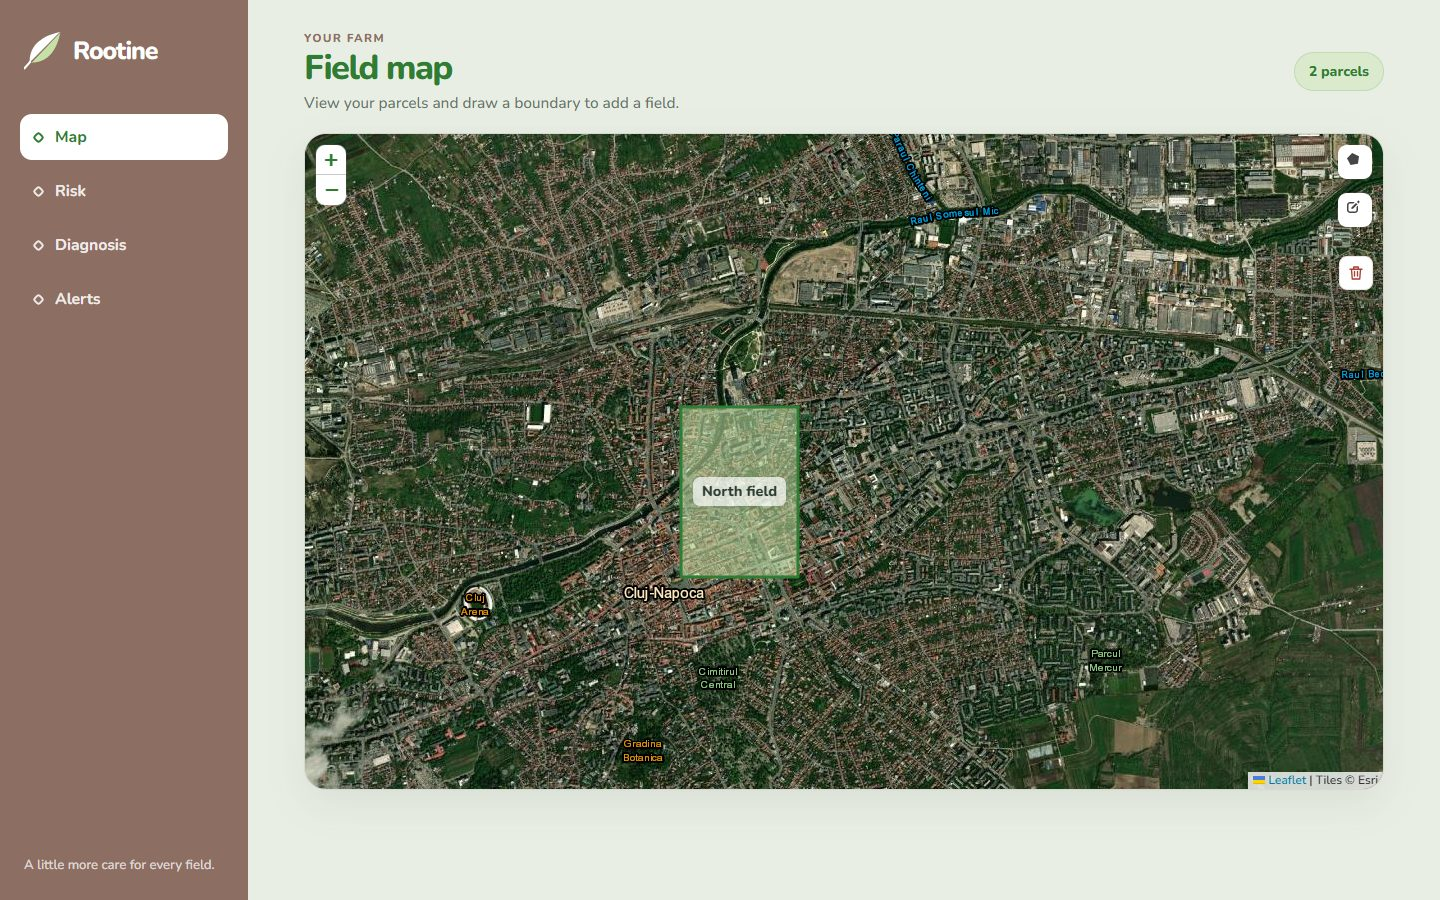
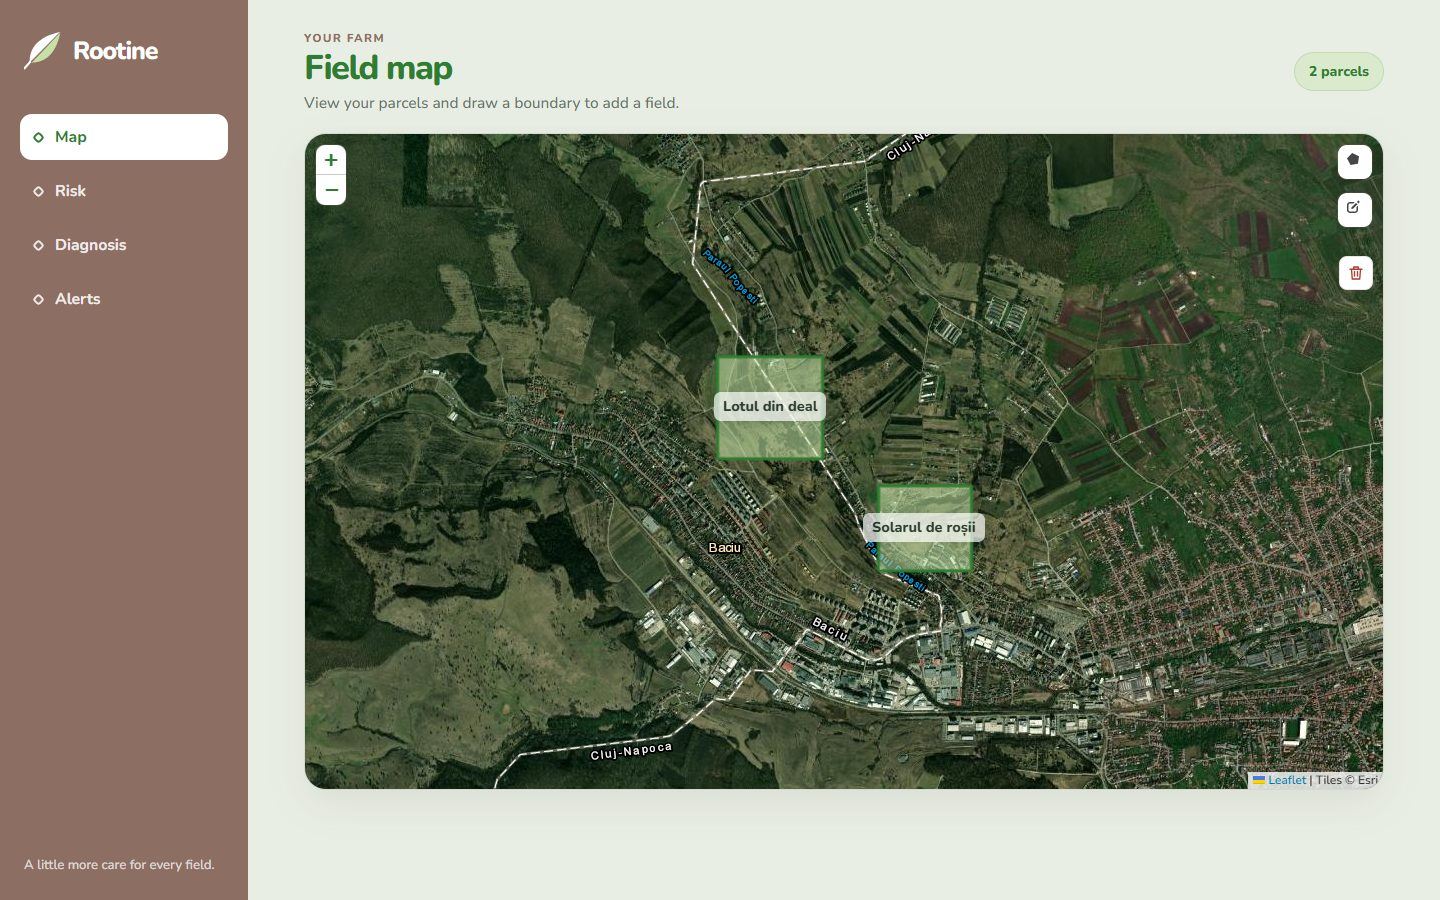
docs(presentations): fix Romanian wording and use screenshots from the full stack
Rewrite slide text and speaker notes after a Romanian language review (no English calques, correct use of de with numerals, e-mail, endpointuri). Replace the mock-data screenshots with screenshots of the full stack running in Docker with the real model, including a real diagnosis result with the PlantVillage credit. Backend test count is now 45, all run (26 unit, 19 integration). Larger type on flow slides, bigger screenshots. Update FACTS.md.

diff --git a/docs/presentations/demo-1/index.html b/docs/presentations/demo-1/index.html
@@ -21,66 +21,66 @@
     <div class="brand anim"><svg><use href="#leaf"/></svg><span>Rootine</span></div>
     <div class="grid">
       <h1 class="anim d1">Boala se vede<br>întâi pe <em>frunză</em>.</h1>
-      <p class="lead anim d2">Bolile plantelor se observă greu la început și costă mult dacă sunt găsite târziu. Rootine le găsește dintr-o fotografie și din vreme.</p>
+      <p class="lead anim d2">Rootine recunoaște boala dintr-o poză și calculează riscul pe parcelă din datele meteo.</p>
     </div>
     <div class="rule"></div>
     <div class="foot anim d3"><span>Work in Progress (WIP)</span><span class="sep"></span><span>Demo 1</span></div>
-    <aside class="notes"><h4>Subiecte pentru voce</h4><ul><li>Problema fermierului: boala se vede târziu</li><li>Rootine într-o propoziție: diagnostic din poză și risc meteo pe parcelă</li><li>Echipa Work in Progress, 8 oameni, 3 echipe</li></ul></aside>
+    <aside class="notes"><h4>Idei pentru voce</h4><ul><li>Problema fermierului: boala se observă târziu, când e greu de tratat</li><li>Rootine într-o propoziție: diagnostic dintr-o poză și risc meteo pe parcelă</li><li>Echipa Work in Progress: 8 oameni, 3 echipe</li></ul></aside>
   </section>
 
   <!-- 2. ML: diagnostic din fotografie (15 s) -->
-  <section class="slide s-numbers cols-3 has-title" aria-label="ML diagnostic" data-seconds="15">
+  <section class="slide s-numbers cols-3 has-title" aria-label="Diagnostic ML" data-seconds="15">
     <p class="kicker anim">ML · Diagnostic din fotografie</p>
-    <h2 class="anim d1">Poză în. Top 3 boli sau <em>„nesigur”</em> afară.</h2>
+    <h2 class="anim d1">Dintr-o poză: top 3 boli sau <em>„nesigur”</em>.</h2>
     <div class="nums">
       <div class="n anim d1"><b>13</b><span>clase în Demo 1<br>tomate și cartofi</span></div>
       <div class="n anim d2"><b>38</b><span>clase țintă<br>tot catalogul PlantVillage</span></div>
-      <div class="n anim d3"><b class="long">99,67%</b><span>acuratețe în laborator*<br>3.064 imagini de test</span></div>
+      <div class="n anim d3"><b class="long">99,67%</b><span>acuratețe pe imagini de laborator*<br>3.064 de imagini de test</span></div>
     </div>
-    <p class="source">*Imagini de laborator; pe poze din câmp valorile vor fi mai mici. Sursă: docs/sprints/sprint-1.md. Date: PlantVillage (Mohanty et al., 2016), CC BY-SA 3.0.</p>
-    <aside class="notes"><h4>Subiecte pentru voce</h4><ul><li>Intrare: poză de frunză și cultura parcelei; ieșire: top 3 boli sau „nesigur”</li><li>Un singur model pentru toate culturile, cu mască pe cultură</li><li>13 clase acum (tomate, cartofi), 38 ca țintă</li><li>Acuratețe și macro-F1 de 99,67% pe imagini de laborator; pe poze din câmp vor fi mai mici</li><li>Credit: PlantVillage, CC BY-SA 3.0</li></ul></aside>
+    <p class="source">*Imagini de laborator; pe poze din câmp, valorile vor fi mai mici. Sursă: docs/sprints/sprint-1.md. Set de date: PlantVillage (Mohanty et al., 2016), CC BY-SA 3.0.</p>
+    <aside class="notes"><h4>Idei pentru voce</h4><ul><li>Primește poza unei frunze și cultura parcelei; răspunde cu top 3 boli sau „nesigur”</li><li>Un singur model pentru toate culturile, cu mască pe cultură</li><li>13 clase acum (tomate, cartofi), 38 ca țintă</li><li>Acuratețe și macro-F1 de 99,67% pe imagini de laborator; pe poze din câmp vor fi mai mici</li><li>Credit: PlantVillage, CC BY-SA 3.0</li></ul></aside>
   </section>
 
   <!-- 3. ML: risc meteo (15 s) -->
-  <section class="slide s-flow steps-3 has-levels" aria-label="ML risc meteo" data-seconds="15">
+  <section class="slide s-flow steps-3 has-levels" aria-label="Risc meteo ML" data-seconds="15">
     <p class="kicker anim">ML · Risc meteo</p>
-    <h2 class="anim d1">Vremea și regulile dau <em>riscul</em>.</h2>
+    <h2 class="anim d1">Vremea arată <em>riscul</em> de boală.</h2>
     <ol class="flow">
       <li class="anim d1"><i>1</i><h3>Vreme</h3><p>Open-Meteo, date orare</p></li>
       <li class="anim d2"><i>2</i><h3>Reguli</h3><p>Hutton (mană) · TOMCAST</p></li>
       <li class="anim d3 end"><i>3</i><h3>Risc pe parcelă</h3><p>nivel și motiv</p></li>
     </ol>
     <div class="levels anim d4"><span class="status ok">Risc scăzut</span><span class="status warn">Risc mediu</span><span class="status bad">Risc ridicat</span></div>
-    <p class="source">Sursă: ai-service/app (hutton.py, tomcast.py), PR #72 îmbinat în main.</p>
-    <aside class="notes"><h4>Subiecte pentru voce</h4><ul><li>Reguli publicate, nu un model antrenat pe vreme</li><li>Hutton pentru mana la cartof și tomate; TOMCAST pentru alternarioză și septorioză la tomate</li><li>Date orare de la Open-Meteo, nivel scăzut, mediu sau ridicat și motivul</li></ul></aside>
+    <p class="source">Sursă: ai-service/app (hutton.py, tomcast.py), PR #72, în main.</p>
+    <aside class="notes"><h4>Idei pentru voce</h4><ul><li>Reguli publicate, nu un model antrenat pe vreme</li><li>Hutton pentru mană la cartofi și tomate; TOMCAST pentru alternarioză și septorioză la tomate</li><li>Date orare de la Open-Meteo; rezultatul: risc scăzut, mediu sau ridicat, cu motivul</li></ul></aside>
   </section>
 
   <!-- 4. Backend (25 s) -->
   <section class="slide s-flow steps-4 has-levels" aria-label="Backend" data-seconds="25">
     <p class="kicker anim">Backend</p>
-    <h2 class="anim d1">10 endpoint-uri, 46 de teste, <em>CI verde</em>.</h2>
+    <h2 class="anim d1">10 endpointuri, 45 de teste, <em>CI verde</em>.</h2>
     <ol class="flow">
       <li class="anim d1"><i>1</i><h3>Web</h3><p>nginx + React</p></li>
       <li class="anim d2"><i>2</i><h3>Backend</h3><p>Spring Boot 4, Java 21, JWT</p></li>
-      <li class="anim d3"><i>3</i><h3>Date</h3><p>PostgreSQL + PostGIS</p></li>
+      <li class="anim d3"><i>3</i><h3>Bază de date</h3><p>PostgreSQL + PostGIS</p></li>
       <li class="anim d4 end"><i>4</i><h3>AI service</h3><p>FastAPI + ONNX Runtime</p></li>
     </ol>
-    <p class="source">Sursă: controllere backend, .github/workflows/ci.yml, main la 11 noiembrie 2026. Autentificare: token JWT de demo; înregistrarea cu email vine mai târziu.</p>
-    <aside class="notes"><h4>Subiecte pentru voce</h4><ul><li>Arhitectura: web, backend, bază de date cu PostGIS, client către AI service</li><li>Endpoint-uri active: culturi, parcele, diagnostice, risc pe parcelă și tokenul de demo</li><li>46 de teste, rulate în CI la fiecare PR</li><li>Ce nu e gata: înregistrare cu email, heatmap, alerte</li></ul></aside>
+    <p class="source">Sursă: controllerele din backend, .github/workflows/ci.yml, main la 11 noiembrie 2026. Autentificare: token JWT de demo; înregistrarea cu e-mail vine mai târziu.</p>
+    <aside class="notes"><h4>Idei pentru voce</h4><ul><li>Arhitectura: web, backend, bază de date cu PostGIS și un client către AI service</li><li>Endpointuri active: culturi, parcele, diagnostice, risc pe parcelă și tokenul de demo</li><li>45 de teste, rulate în CI la fiecare PR</li><li>Ce nu e gata încă: înregistrarea cu e-mail, harta de risc pentru toate parcelele, alertele</li></ul></aside>
   </section>
 
   <!-- 5. Frontend (25 s) -->
   <section class="slide s-feature" aria-label="Frontend" data-seconds="25">
     <div class="col-text">
       <p class="kicker anim">Frontend</p>
-      <h2 class="anim d1">Harta, poza,<br><em>riscul</em>.</h2>
-      <ul class="points anim d2"><li>Desenezi parcelele pe hartă</li><li>Încarci o poză cu o frunză</li><li>Vezi riscul pe fiecare parcelă</li></ul>
+      <h2 class="anim d1">Harta, poza și <em>riscul</em>.</h2>
+      <ul class="points anim d2"><li>Desenezi parcelele pe hartă</li><li>Încarci poza unei frunze</li><li>Vezi riscul pentru fiecare parcelă</li></ul>
     </div>
-    <figure class="shot t1 anim d2"><img src="assets/fe-map.jpg" alt="Harta cu o parcelă în aplicația Rootine"></figure>
+    <figure class="shot t1 anim d2"><img src="assets/fe-map.jpg" alt="Harta cu două parcele în aplicația Rootine"></figure>
     <figure class="shot t2 anim d3"><img src="assets/fe-risk.jpg" alt="Ecranul de risc din aplicația Rootine"></figure>
-    <figure class="shot t3 anim d4"><img src="assets/fe-upload.jpg" alt="Ecranul de încărcare a unei poze în aplicația Rootine"></figure>
-    <p class="source">Capturi din aplicația rulată cu date de test. React, TypeScript, Leaflet. Hartă: Esri.</p>
-    <aside class="notes"><h4>Subiecte pentru voce</h4><ul><li>Harta și desenarea parcelelor</li><li>Încărcarea pozei și rezultatul diagnosticului</li><li>Vederea de risc pe parcele</li><li>30 de teste de frontend</li></ul></aside>
+    <figure class="shot t3 anim d4"><img src="assets/fe-result.jpg" alt="Rezultatul unui diagnostic în aplicația Rootine: mană la tomate"></figure>
+    <p class="source">Capturi din aplicația completă, rulată în Docker. Foto frunză: PlantVillage, CC BY-SA 3.0. Hartă: Esri.</p>
+    <aside class="notes"><h4>Idei pentru voce</h4><ul><li>Harta și desenarea parcelelor</li><li>Încărcarea pozei și rezultatul diagnosticului</li><li>Ecranul de risc pe parcele</li><li>30 de teste de frontend</li></ul></aside>
   </section>
 
   <!-- 6. Demo (2 s) -->
@@ -96,15 +96,15 @@
       <p class="kicker anim">Până la Demo 2 · 12 decembrie</p>
       <ol class="todo anim d1">
         <li>Toate cele 38 de clase din PlantVillage</li>
-        <li>Test pe poze din câmp, nu doar de laborator</li>
-        <li>Model mai bun pe poze reale</li>
-        <li>Harta de risc pe date din /v1/risk</li>
-        <li>Înregistrare cu email și alerte</li>
+        <li>Testare pe poze din câmp, nu doar pe cele de laborator</li>
+        <li>Un model mai precis pe poze din câmp</li>
+        <li>Harta de risc pentru toate parcelele</li>
+        <li>Înregistrare cu e-mail și alerte</li>
       </ol>
     </div>
     <div class="rule"></div>
     <div class="foot anim d3"><span>Mulțumim</span><span class="sep"></span><span>Work in Progress (WIP)</span></div>
-    <aside class="notes"><h4>Subiecte pentru voce</h4><ul><li>Ce construim în luna până la Demo 2 și de ce</li><li>Ce nu am făcut înainte de Demo 1: înregistrare cu email, heatmap, alerte, 38 de clase</li><li>Lista e o ciornă: se confirmă ce e realist într-o lună</li></ul></aside>
+    <aside class="notes"><h4>Idei pentru voce</h4><ul><li>Ce construim în luna până la Demo 2 și de ce</li><li>Ce nu am făcut înainte de Demo 1: înregistrarea cu e-mail, harta de risc, alertele, cele 38 de clase</li><li>Lista e o ciornă: se confirmă ce e realist într-o lună</li></ul></aside>
   </section>
 
 </main>

diff --git a/.claude/skills/rootine-presentations/template/index.html b/.claude/skills/rootine-presentations/template/index.html
@@ -23,11 +23,11 @@
     <div class="brand anim"><svg><use href="#leaf"/></svg><span>Rootine</span></div>
     <div class="grid">
       <h1 class="anim d1">Boala se vede<br>întâi pe <em>frunză</em>.</h1>
-      <p class="lead anim d2">Diagnostic dintr-o fotografie și alerte de risc meteo, pentru fiecare parcelă.</p>
+      <p class="lead anim d2">Rootine recunoaște boala dintr-o poză și calculează riscul pe parcelă din datele meteo.</p>
     </div>
     <div class="rule"></div>
     <div class="foot anim d3"><span>Work in Progress (WIP)</span><span class="sep"></span><span>Titlul evenimentului</span></div>
-    <aside class="notes"><h4>Subiecte pentru voce</h4><ul><li>Problema fermierului, într-o propoziție</li><li>Produsul, într-o propoziție</li></ul></aside>
+    <aside class="notes"><h4>Idei pentru voce</h4><ul><li>Problema fermierului, într-o propoziție</li><li>Produsul, într-o propoziție</li></ul></aside>
   </section>
 
   <!-- TYPE 2: statement. One sentence, nothing else. -->
@@ -35,7 +35,7 @@
     <p class="kicker anim">Ideea</p>
     <h2 class="anim d1">Un singur model pentru <em>toate culturile</em>.</h2>
     <p class="sub anim d2">Culturile se aleg printr-o mască, nu prin modele separate.</p>
-    <aside class="notes"><h4>Subiecte pentru voce</h4><ul><li>De ce un singur model</li></ul></aside>
+    <aside class="notes"><h4>Idei pentru voce</h4><ul><li>De ce un singur model</li></ul></aside>
   </section>
 
   <!-- TYPE 3: feature with screenshot. Real screenshots only. Add a .source line. -->
@@ -43,11 +43,11 @@
     <div class="col-text">
       <p class="kicker anim">Diagnostic</p>
       <h2 class="anim d1">Fotografiezi o frunză.<br>Primești <em>diagnosticul</em>.</h2>
-      <p class="body anim d2">Primele 3 boli probabile, sau „nesigur”.</p>
+      <p class="body anim d2">Primele 3 boli probabile sau „nesigur”.</p>
     </div>
     <figure class="shot solo anim d2"><img src="assets/example-diagnosis.jpg" alt="Ecranul de diagnostic din aplicația Rootine"></figure>
     <p class="source">Sursă: captură din aplicație, date de test</p>
-    <aside class="notes"><h4>Subiecte pentru voce</h4><ul><li>Ce face utilizatorul</li><li>Ce primește</li></ul></aside>
+    <aside class="notes"><h4>Idei pentru voce</h4><ul><li>Ce face utilizatorul</li><li>Ce primește</li></ul></aside>
   </section>
 
   <!-- TYPE 4: big numbers. 2 to 4 figures. Add class cols-2 / cols-3 when not 4. Every number needs a source in FACTS.md. -->
@@ -60,7 +60,7 @@
       <div class="n anim d4"><b>8</b><span>oameni<br>într-o singură echipă</span></div>
     </div>
     <p class="source">Sursă: README.md, docs/sprints/sprint-1.md</p>
-    <aside class="notes"><h4>Subiecte pentru voce</h4><ul><li>Ce înseamnă fiecare cifră</li></ul></aside>
+    <aside class="notes"><h4>Idei pentru voce</h4><ul><li>Ce înseamnă fiecare cifră</li></ul></aside>
   </section>
 
   <!-- TYPE 5: flow / architecture. 3 to 5 steps (class steps-3 / steps-5 when not 4). Last step has class "end". -->
@@ -73,7 +73,7 @@
       <li class="anim d3"><i>3</i><h3>AI service</h3><p>FastAPI + ONNX</p></li>
       <li class="anim d4 end"><i>4</i><h3>Diagnostic<br>și risc meteo</h3><p>Top 3 boli · Open-Meteo</p></li>
     </ol>
-    <aside class="notes"><h4>Subiecte pentru voce</h4><ul><li>Cine cheamă pe cine</li></ul></aside>
+    <aside class="notes"><h4>Idei pentru voce</h4><ul><li>Cine apelează pe cine</li></ul></aside>
   </section>
 
   <!-- TYPE 6: divider. Short card used as the cut to a screen recording. -->

diff --git a/.claude/skills/rootine-presentations/template/deck.css b/.claude/skills/rootine-presentations/template/deck.css
@@ -51,7 +51,7 @@ h1,h2,h3{font-family:var(--display);font-weight:500;letter-spacing:-.02em;color:
 
 /* type: feature (text left, screenshots right) */
 .s-feature .col-text{position:absolute;left:var(--mx);top:150px;width:800px}
-.s-feature h2{font-size:78px;line-height:1.04;margin:34px 0 40px}
+.s-feature h2{font-size:70px;line-height:1.04;margin:34px 0 40px}
 .s-feature .body{font-size:34px;line-height:1.4;max-width:620px}
 .s-feature ul.points{list-style:none;font-size:32px;line-height:1.5;font-weight:600}
 .s-feature ul.points li::before{content:"";display:inline-block;width:14px;height:14px;background:var(--green);margin-right:18px;border-radius:50%}
@@ -59,9 +59,9 @@ h1,h2,h3{font-family:var(--display);font-weight:500;letter-spacing:-.02em;color:
 .shot img{display:block;width:100%}
 .shot.a{left:960px;top:110px;width:560px}
 .shot.b{left:1230px;top:430px;width:570px}
-.shot.t1{left:880px;top:100px;width:560px}
-.shot.t2{left:1240px;top:370px;width:560px}
-.shot.t3{left:960px;top:640px;width:520px}
+.shot.t1{left:840px;top:90px;width:640px}
+.shot.t2{left:1180px;top:350px;width:620px}
+.shot.t3{left:900px;top:620px;width:560px}
 .shot.solo{left:1000px;top:120px;width:800px}
 
 /* type: numbers (2 to 4 figures) */
@@ -87,15 +87,15 @@ h1,h2,h3{font-family:var(--display);font-weight:500;letter-spacing:-.02em;color:
 .s-flow .flow li{padding:34px 40px 0 0;position:relative;min-height:520px}
 .s-flow .flow li + li{padding-left:40px;border-left:1px solid var(--bark)}
 .s-flow .flow i{font:italic 400 120px/1 var(--display);color:var(--green);display:block;margin-bottom:22px}
-.s-flow .flow h3{font-size:54px;line-height:1.1;margin-bottom:20px}
-.s-flow .flow p{font-size:30px;font-weight:600;color:var(--bark)}
+.s-flow .flow h3{font-size:62px;line-height:1.1;margin-bottom:22px}
+.s-flow .flow p{font-size:34px;line-height:1.3;font-weight:600;color:var(--bark)}
 .s-flow .flow li.end{background:var(--forest);margin-top:-2px;padding:36px 40px 40px 44px;border-left:0}
 .s-flow .flow li.end i{color:var(--leaf)}.s-flow .flow li.end h3{color:#fff}.s-flow .flow li.end p{color:var(--leaf)}
 
 /* flow: optional row of risk levels (icon + word) */
 .s-flow .levels{position:absolute;left:var(--mx);bottom:120px;display:flex;gap:24px}
 .s-flow.has-levels h2{font-size:84px;margin-bottom:80px}
-.s-flow.has-levels .flow li{min-height:400px}
+.s-flow.has-levels .flow li{min-height:480px}
 
 /* type: divider (cut to the screen recording) */
 .s-divider{background:var(--forest);display:flex;align-items:center;justify-content:center}

diff --git a/docs/presentations/demo-1/deck.css b/docs/presentations/demo-1/deck.css
@@ -51,7 +51,7 @@ h1,h2,h3{font-family:var(--display);font-weight:500;letter-spacing:-.02em;color:
 
 /* type: feature (text left, screenshots right) */
 .s-feature .col-text{position:absolute;left:var(--mx);top:150px;width:800px}
-.s-feature h2{font-size:78px;line-height:1.04;margin:34px 0 40px}
+.s-feature h2{font-size:70px;line-height:1.04;margin:34px 0 40px}
 .s-feature .body{font-size:34px;line-height:1.4;max-width:620px}
 .s-feature ul.points{list-style:none;font-size:32px;line-height:1.5;font-weight:600}
 .s-feature ul.points li::before{content:"";display:inline-block;width:14px;height:14px;background:var(--green);margin-right:18px;border-radius:50%}
@@ -59,9 +59,9 @@ h1,h2,h3{font-family:var(--display);font-weight:500;letter-spacing:-.02em;color:
 .shot img{display:block;width:100%}
 .shot.a{left:960px;top:110px;width:560px}
 .shot.b{left:1230px;top:430px;width:570px}
-.shot.t1{left:880px;top:100px;width:560px}
-.shot.t2{left:1240px;top:370px;width:560px}
-.shot.t3{left:960px;top:640px;width:520px}
+.shot.t1{left:840px;top:90px;width:640px}
+.shot.t2{left:1180px;top:350px;width:620px}
+.shot.t3{left:900px;top:620px;width:560px}
 .shot.solo{left:1000px;top:120px;width:800px}
 
 /* type: numbers (2 to 4 figures) */
@@ -87,15 +87,15 @@ h1,h2,h3{font-family:var(--display);font-weight:500;letter-spacing:-.02em;color:
 .s-flow .flow li{padding:34px 40px 0 0;position:relative;min-height:520px}
 .s-flow .flow li + li{padding-left:40px;border-left:1px solid var(--bark)}
 .s-flow .flow i{font:italic 400 120px/1 var(--display);color:var(--green);display:block;margin-bottom:22px}
-.s-flow .flow h3{font-size:54px;line-height:1.1;margin-bottom:20px}
-.s-flow .flow p{font-size:30px;font-weight:600;color:var(--bark)}
+.s-flow .flow h3{font-size:62px;line-height:1.1;margin-bottom:22px}
+.s-flow .flow p{font-size:34px;line-height:1.3;font-weight:600;color:var(--bark)}
 .s-flow .flow li.end{background:var(--forest);margin-top:-2px;padding:36px 40px 40px 44px;border-left:0}
 .s-flow .flow li.end i{color:var(--leaf)}.s-flow .flow li.end h3{color:#fff}.s-flow .flow li.end p{color:var(--leaf)}
 
 /* flow: optional row of risk levels (icon + word) */
 .s-flow .levels{position:absolute;left:var(--mx);bottom:120px;display:flex;gap:24px}
 .s-flow.has-levels h2{font-size:84px;margin-bottom:80px}
-.s-flow.has-levels .flow li{min-height:400px}
+.s-flow.has-levels .flow li{min-height:480px}
 
 /* type: divider (cut to the screen recording) */
 .s-divider{background:var(--forest);display:flex;align-items:center;justify-content:center}

diff --git a/docs/presentations/demo-1/FACTS.md b/docs/presentations/demo-1/FACTS.md
@@ -36,7 +36,7 @@ Every claim on the slides, with its evidence. Checked on 2026-11-11 against `ori
 |---|---|---|
 | Rules from published models: Hutton (late blight, potato and tomato) and TOMCAST (early blight and septoria on tomato) | `ai-service/app` (`hutton.py`, `tomcast.py`); PR #72 merged; sprint-1.md | verified |
 | Hourly Open-Meteo data | `OpenMeteoClient` requests `temperature_2m`, `relative_humidity_2m`, `dew_point_2m`, `precipitation` hourly | verified |
-| Risk level and reason per parcel (low, medium, high) | `POST /v1/risk` response has `level`, `risk_index`, `reason`; `docs/api/ai-service.md` matches code; backend `GET /parcels/{id}/risk` implemented in `RiskController` | verified (backend tests not run for this route) |
+| Risk level and reason per parcel (low, medium, high) | `POST /v1/risk` response has `level`, `risk_index`, `reason`; `docs/api/ai-service.md` matches code; backend `GET /parcels/{id}/risk` implemented in `RiskController` | verified; also called live through the full stack on 2026-11-11: both parcels returned level low, risk index 10 (14-day window) |
 | Hutton rule (notes only): day counts if min temperature is at least 10 C and at least 6 hours with humidity of 90% or more; 2 such days in a row give high | `hutton.py`, sprint-1.md | verified |
 | The "near" levels and TOMCAST thresholds are the project's own adaptation, not part of the published models | `hutton.py`, `tomcast.py` | verified (keep out of the voice-over) |
 | Not shown as done: risk heatmap for all parcels (`GET /risk/heatmap` returns 501) | backend `RiskController` | verified |
@@ -51,7 +51,7 @@ Every claim on the slides, with its evidence. Checked on 2026-11-11 against `ori
 | AI client to the AI service (FastAPI + ONNX Runtime) | package `app.aiclient` in the backend; `ai-service/` | verified |
 | Authentication: stateless JWT (HS256). The only token issuer is `POST /auth/demo-token`, enabled only with `DEMO_TOKEN_ENABLED=true`. Register, login and `/me` are 501 stubs | `SecurityConfig`, `DemoTokenService`, `AuthController` | verified |
 | 10 active endpoints: `GET /crops`, `POST/GET /parcels`, `PUT /parcels/{id}`, `POST/GET /diagnoses`, `GET /diagnoses/{id}`, `GET /parcels/{id}/risk`, `POST /auth/demo-token` | controllers, counted 2026-11-11 (16 contract endpoints plus the demo token; 7 are 501 stubs) | verified |
-| 46 tests | 46 `@Test` annotations in 13 classes (26 unit and slice, 20 integration with Testcontainers). Unit tests: all 26 passed when run on a copy. The 20 integration tests were **not** run locally (no Docker); they run in CI | verified (count), partly run |
+| 45 tests, all passing | `./mvnw -B verify` on a copy of `backend/` with Docker running, 2026-11-11: 26 unit and slice tests plus 19 integration tests (Testcontainers), `BUILD SUCCESS`. (Counting `@Test` annotations gives 46; 45 ran.) | verified |
 | CI is green on main | `.github/workflows/ci.yml` (jobs `changes`, `frontend`, `backend`, `ai-service`, `no-attribution`, `ci-result`); latest runs on main for #72, #77, #79 succeeded (`gh run list`) | verified |
 | Not shown as done: email registration, heatmap, alerts (RabbitMQ, email, SSE) | no scheduled job, no `RabbitTemplate`, no `SseEmitter` in the code; ADR 0005 and `docs/architecture/overview.md` describe them as design | verified |
 
@@ -63,8 +63,8 @@ Every claim on the slides, with its evidence. Checked on 2026-11-11 against `ori
 | Photo upload and diagnosis result with top predictions (notes) | `ImageUpload.tsx`, `DiagnosisPage.tsx`; PRs #36, #78 | verified |
 | Risk view with legend and summary counts | `RiskView.tsx` (levels high, medium, low, not modelled) | verified |
 | 30 frontend tests (notes) | `npm test` in `frontend/`: 8 files, 30 tests passed, 2026-11-11 | verified |
-| Screenshots | Real UI of the frontend on `origin/main`, run with `npm run dev` and the project's own mock API (MSW, `VITE_USE_MSW=true`). **The full stack was not run** (Docker is not installed on this machine), so parcel and risk data are test data. The "North field" parcel in Cluj-Napoca is mock data. The map imagery is Esri World Imagery (credit on the slide). No tokens or personal data are visible | verified, with this caveat |
-| Not shown: a real diagnosis result screen | no real leaf photo was used (no dataset in Git, none downloaded); the mock API would return a made-up result | left out on purpose |
+| Screenshots (map, risk, diagnosis result) | Real UI of the frontend served by nginx from the full stack: `docker compose -p rootine-demo up --build` on `origin/main` `98375a5` with `AI_MOCK=false`, the real `model.onnx` (SHA-256 `a26fd1e2...acca4`), `DEMO_TOKEN_ENABLED=true`. Parcels "Lotul din deal" (potato) and "Solarul de roșii" (tomato) were created with `POST /parcels`, 2026-11-11. Map imagery: Esri World Imagery (credit on the slide). No tokens or personal data visible | verified |
+| Diagnosis result on the slide: late blight, 100% (0.9990), status confident, on a tomato parcel | Real run through the UI: `POST /diagnoses` with a PlantVillage sample photo (`raw/color/Tomato___Late_blight/005e3b43-9050-47da-9498-f9ecdcc703b3___RS_Late.B 5104.JPG` from github.com/spMohanty/PlantVillage-Dataset, CC BY-SA 3.0, 256x256, about 19 KB, not committed to the repo; only the screenshot is). Two more photos checked by API on 2026-11-11: potato early blight gave early_blight 0.9996, tomato healthy gave healthy 0.99999. Three photos are an anecdote, not a metric | verified (3 photos) |
 | Alerts page is a placeholder ("No alerts in demo1") | `AlertsPage.tsx` | verified (not on the slide) |
 
 ## Slide 6: Demo
